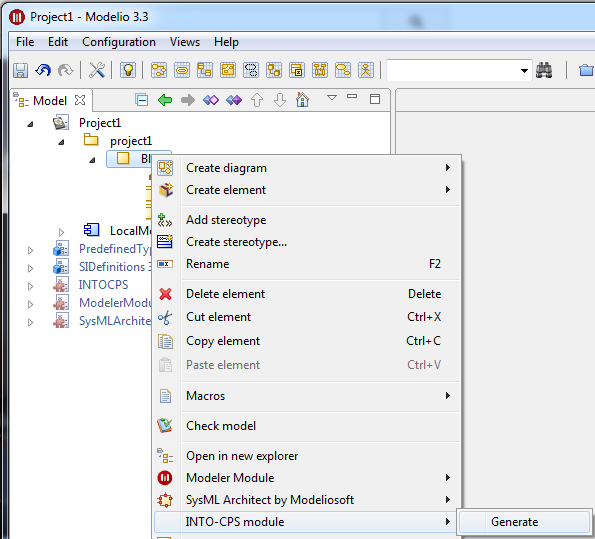
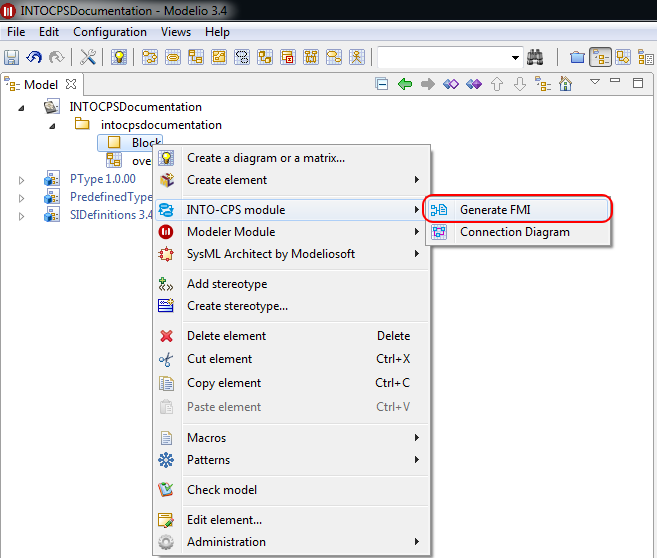
Modelling environment
Add information related to the INTO-CPS modelling environment

Changed region(s): [[0.0, 0.0, 1.0, 1.0]]

diff --git a/systemmodelling/index.md b/systemmodelling/index.md
@@ -29,7 +29,7 @@ Full details on Modelio licensing conditions can be found [here](http://www.mode
 
 ## Download and installation##
 
-**Modelio's current version is 3.4**.
+**Modelio's current version is 3.4.0**.
 
 Binary distribution archives for Linux and Windows are available on the [download page](http://www.modelio.org/downloads/download-modelio.html) of the Modelio community site.
 
@@ -37,13 +37,24 @@ Installation requirements and instructions can be found in our [Quick start guid
 
 Modelio version contents can be found in the [[Version history]].
 
-### Installing FMU Export support
+### Installing INTO-CPS support
 
-To be able to export a modelDescription from a SysML block into Modelio you have to first install the INTOCPS module which is available here for now:
+A specific project have been created into Modelio.org forge [http://forge.modelio.org/projects/intocps](http://forge.modelio.org/projects/intocps)
+
+This latter will help you with:
+1. A dedicated wiki  [http://forge.modelio.org/projects/into-cps-user-manual-english/wiki](http://forge.modelio.org/projects/into-cps-user-manual-english/wiki)
+2. Lattest version of INTO-CPS extension [http://forge.modelio.org/projects/intocps-modelio34/files](http://forge.modelio.org/projects/intocps-modelio34/files)
+3. Issues reporting [http://forge.modelio.org/projects/intocps/issues/new](http://forge.modelio.org/projects/intocps/issues/new)
+
+To be able to use INTO-CPS extension into Modelio you have to first install the INTO-CPS module which is available here:
 
 [http://forge.modelio.org/projects/intocps-modelio34/files](http://forge.modelio.org/projects/intocps-modelio34/files)
 
-A specific project will be created into Modelio.org forge for future version.
+and then add it to the Modelio module catalog.
+
+### Add INTO-CPS extension
+
+![1]
 
 **Key:**
 

diff --git a/systemmodelling/fmu-import-export_2.md b/systemmodelling/fmu-import-export_2.md
@@ -1,0 +1,26 @@
+---
+layout: default
+title: FMU Import Export
+---
+
+Two commands have been implemented in order to link SysML modelling and FMI definition i.e. the modeldescription.xml file defined inside the [FMI 2.0 specification][3]. 
+
+# FMI Import
+* This command imports the `modelDescription.xml` document describing the interface of a FMI and created an corresponding SysML Block under Modelio. 
+* Importing is easily done via the right click content menu, under a Package, as shown on the screenshot below.
+
+![1]
+
+
+# FMI Export
+
+* This only exports the `modelDescription.xml` document describing the interface of a FMI and not its behavior.
+* Exporting is easily done via the right click content menu, under a SysML Block, as shown on the screenshot below.
+
+![2]
+
+[1]: importfmi.png
+
+[2]: generatefmi.png
+
+[3]: https://www.fmi-standard.org/downloads
